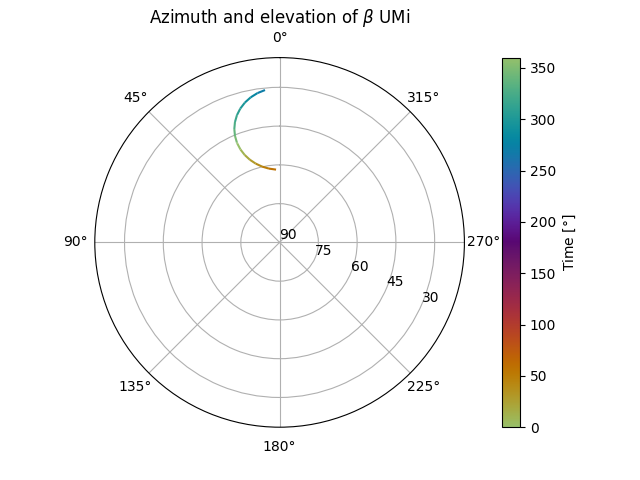
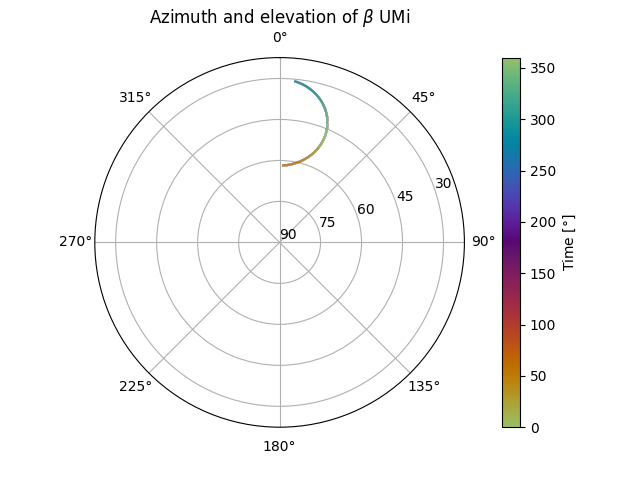
All plots

diff --git a/DN1/rehash_main_01.py b/DN1/rehash_main_01.py
@@ -12,7 +12,8 @@ ZeroTime = 148.926757
 # ---- Track 2 stars ----
 RA_procyon = 114.82549791
 DEC_procyon = 05.22498756
-
+RA_kochab = 222.67635750
+DEC_kochab = 74.15550394
 
 data, times = startrack(RA_procyon, DEC_procyon, 270, 90, 20000, ZeroTime, AGO_lambda, AGO_phi)
 for i in range(len(times)):
@@ -52,7 +53,9 @@ line = ax.add_collection(lc)
 plt.xlim(0, 360)
 plt.ylim(-90, 90)
 plt.colorbar(line, label=r"Time $[\degree]$")
+# plt.title(r"Azimuth and elevation of $\beta$ UMi")
 plt.title("Azimuth and elevation of Procyon")
 plt.xlabel(r"Azimuth $[\degree]$")
 plt.ylabel(r"Elevation $[\degree]$")
+ax.grid(True)
 plt.show()
